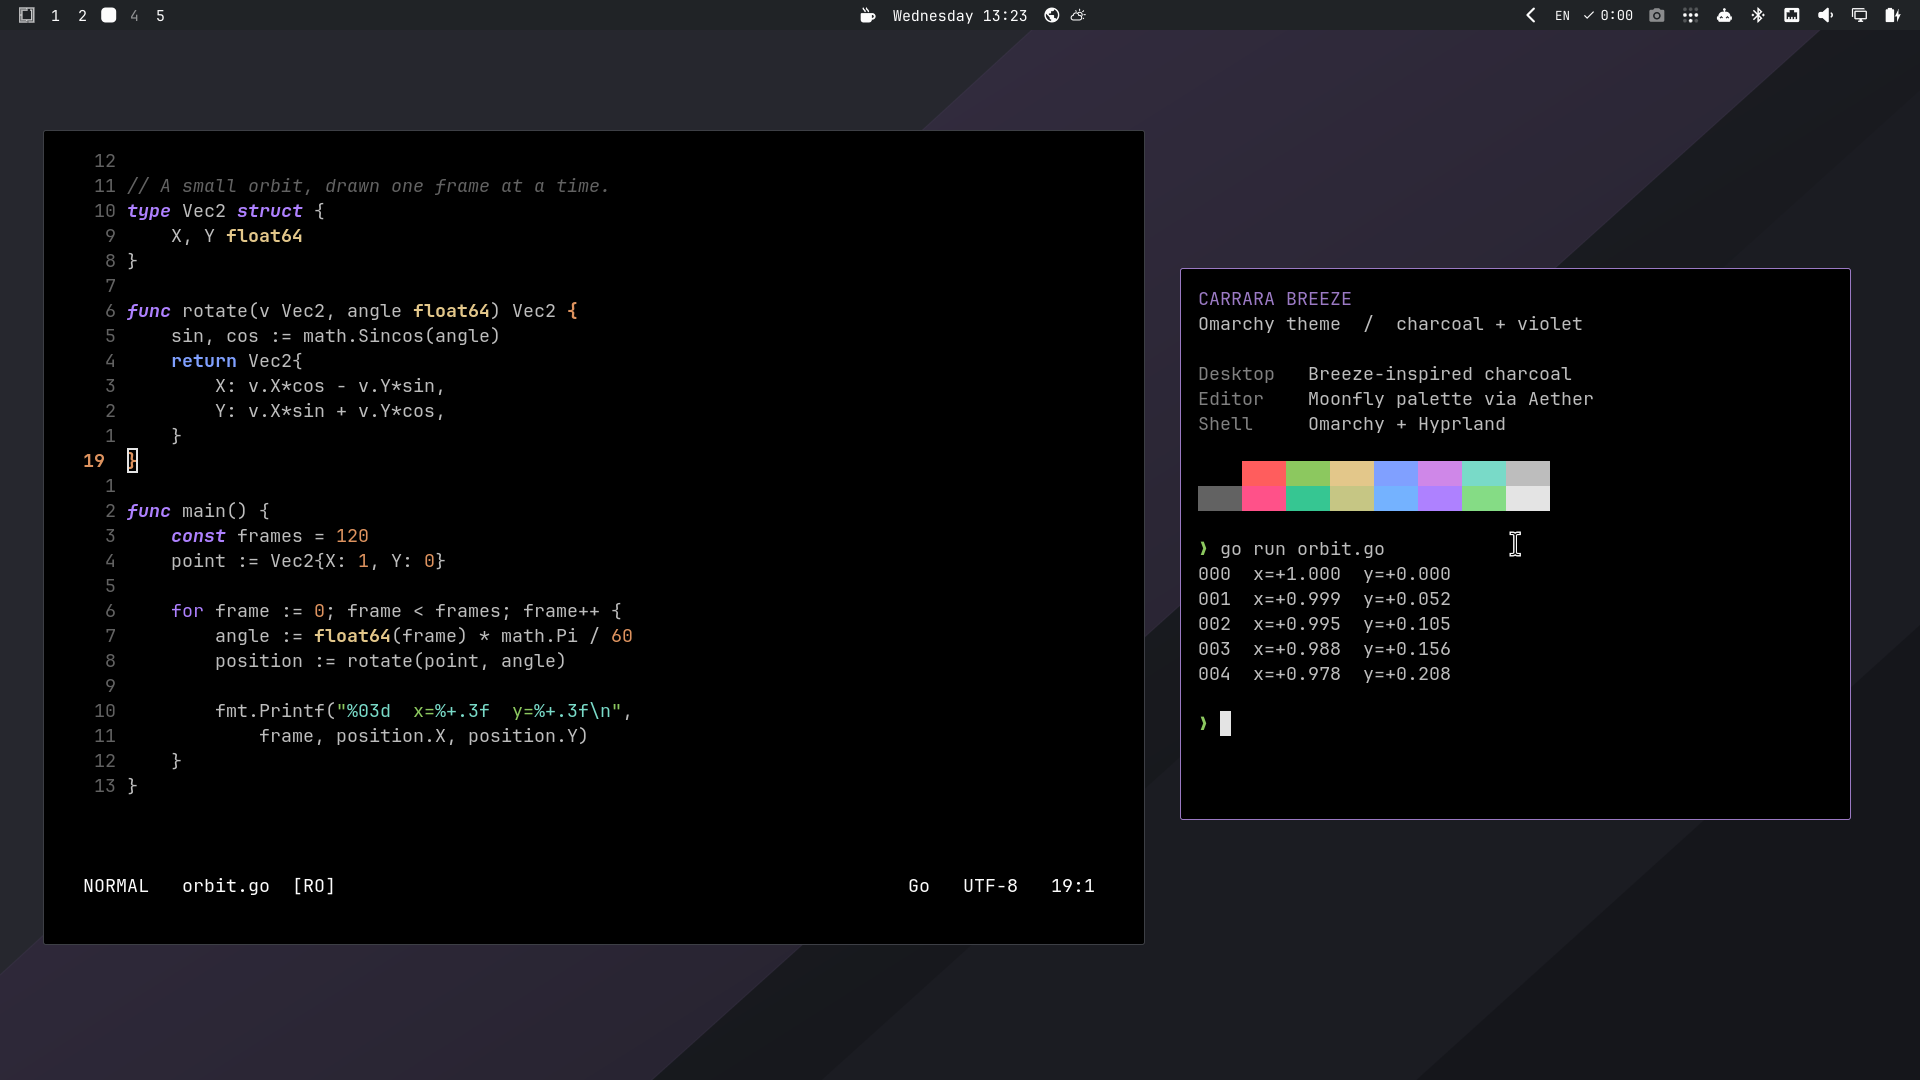
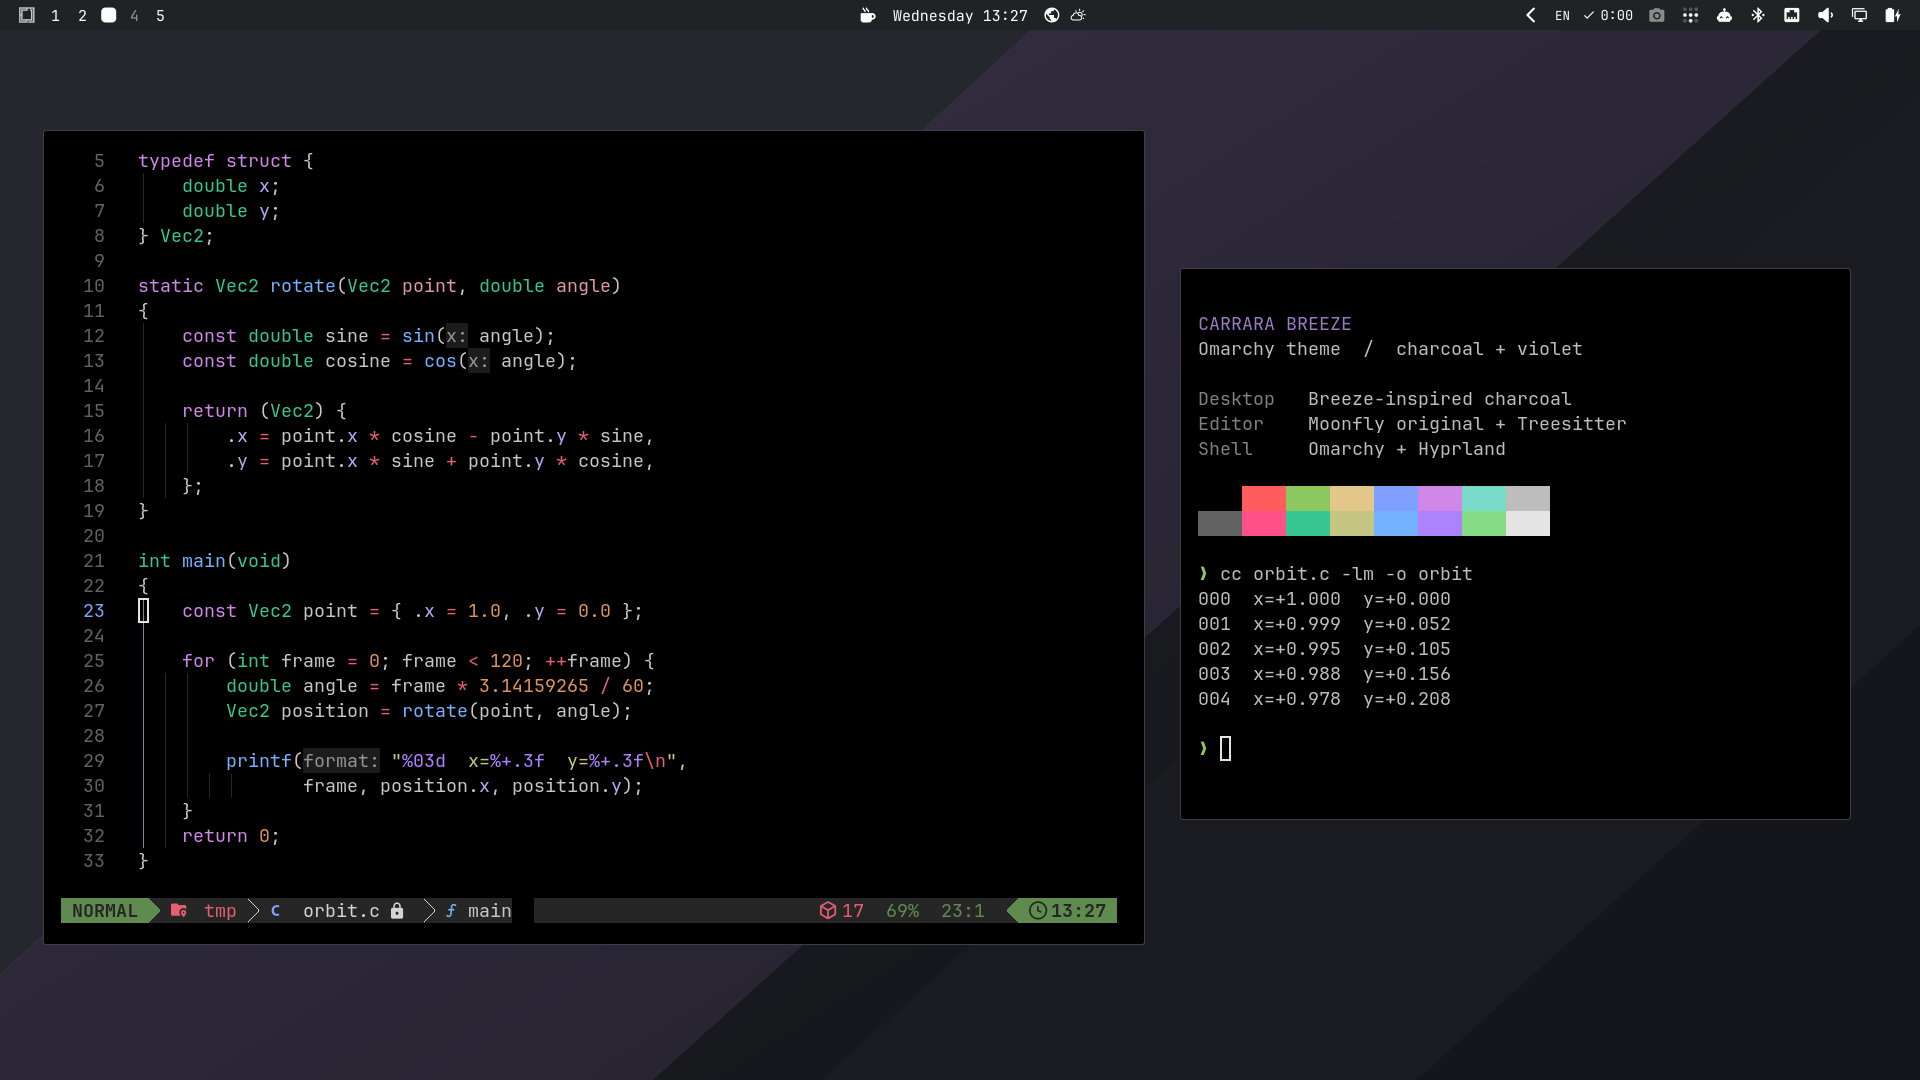
Add original Moonfly Neovim companion and verified preview

diff --git a/README.md b/README.md
@@ -19,6 +19,24 @@ Then select **Carrara Breeze** in the theme picker (`Super + Ctrl + T`), or run:
 omarchy theme set "Carrara Breeze"
 ```
 
+### Original Moonfly in Neovim
+
+To use Carrara's actual Neovim colorscheme and CodeDark status line, install
+the optional [LazyVim companion](extras/zz-carrara-breeze.lua):
+
+```bash
+curl --fail --location --create-dirs \
+  https://raw.githubusercontent.com/pedrohensto/omarchy-carrara-breeze-theme/main/extras/zz-carrara-breeze.lua \
+  --output ~/.config/nvim/lua/plugins/zz-carrara-breeze.lua
+```
+
+Restart Neovim. Lazy installs the original `bluz71/vim-moonfly-colors` plugin.
+The companion selects Moonfly without italics, with a transparent background,
+and the CodeDark lualine theme only while Carrara Breeze is active. Switching
+Omarchy themes restores the normal theme behavior. Existing keymaps and editor
+tools are retained. Enable Treesitter for the language you edit for proper
+type, variable and function captures.
+
 ## Appearance
 
 - Charcoal shell surfaces based on KDE Breeze Dark's Plasma 6.6.4 palette.
@@ -36,17 +54,17 @@ font, editor extension or executable hook is installed.
 This is an adaptation, not Carrara's exported desktop configuration. His current
 public Neovim configuration uses **Moonfly** with no italics and a transparent
 background, plus **CodeDark** for lualine. The distributed theme uses Omarchy's
-generated Aether colorscheme with Moonfly colors; it does not install Moonfly
-or reproduce every Moonfly highlight group.
+generated Aether colorscheme with Moonfly colors unless the optional companion
+above is installed. The companion uses Moonfly's original highlight groups.
 
 Omarchy strips Lua and terminal configuration overrides when installing a theme
 from a repository. Therefore the published theme keeps to `colors.toml`,
 `shell.toml`, icons and backgrounds. Optional exact Moonfly/CodeDark and compact
 window settings are documented in [Local options](docs/LOCAL-OPTIONS.md).
 
-The preview shows the distributed palette in a real Omarchy session, with
-Alacritty and Neovim using the generated Aether colorscheme. Window geometry
-and font sizes in the screenshot are local presentation settings.
+The preview shows a real Omarchy session with Alacritty and Neovim using the
+optional original Moonfly companion, CodeDark and C Treesitter highlighting.
+Window geometry and font sizes in the screenshot are local presentation settings.
 
 See [References](docs/REFERENCES.md) for verified sources and the remaining
 visual approximations. Tested on Omarchy 4.5.0-3.

diff --git a/docs/LOCAL-OPTIONS.md b/docs/LOCAL-OPTIONS.md
@@ -10,6 +10,12 @@ plugin manager with `bluz71/vim-moonfly-colors`, set
 `vim.g.moonflyItalics = false` and `vim.g.moonflyTransparent = true` before
 loading `moonfly`, and select `codedark` in lualine.
 
+The ready-to-use companion is [extras/zz-carrara-breeze.lua](../extras/zz-carrara-breeze.lua).
+The installation command in the main README copies it into LazyVim's personal
+plugin directory. It applies only while this Omarchy theme is selected and
+also handles Omarchy's colorscheme reloads. Remove that one file to uninstall
+the companion. The theme's normal palette continues to work without it.
+
 For LazyVim, the relevant plugin specification is:
 
 ```lua
